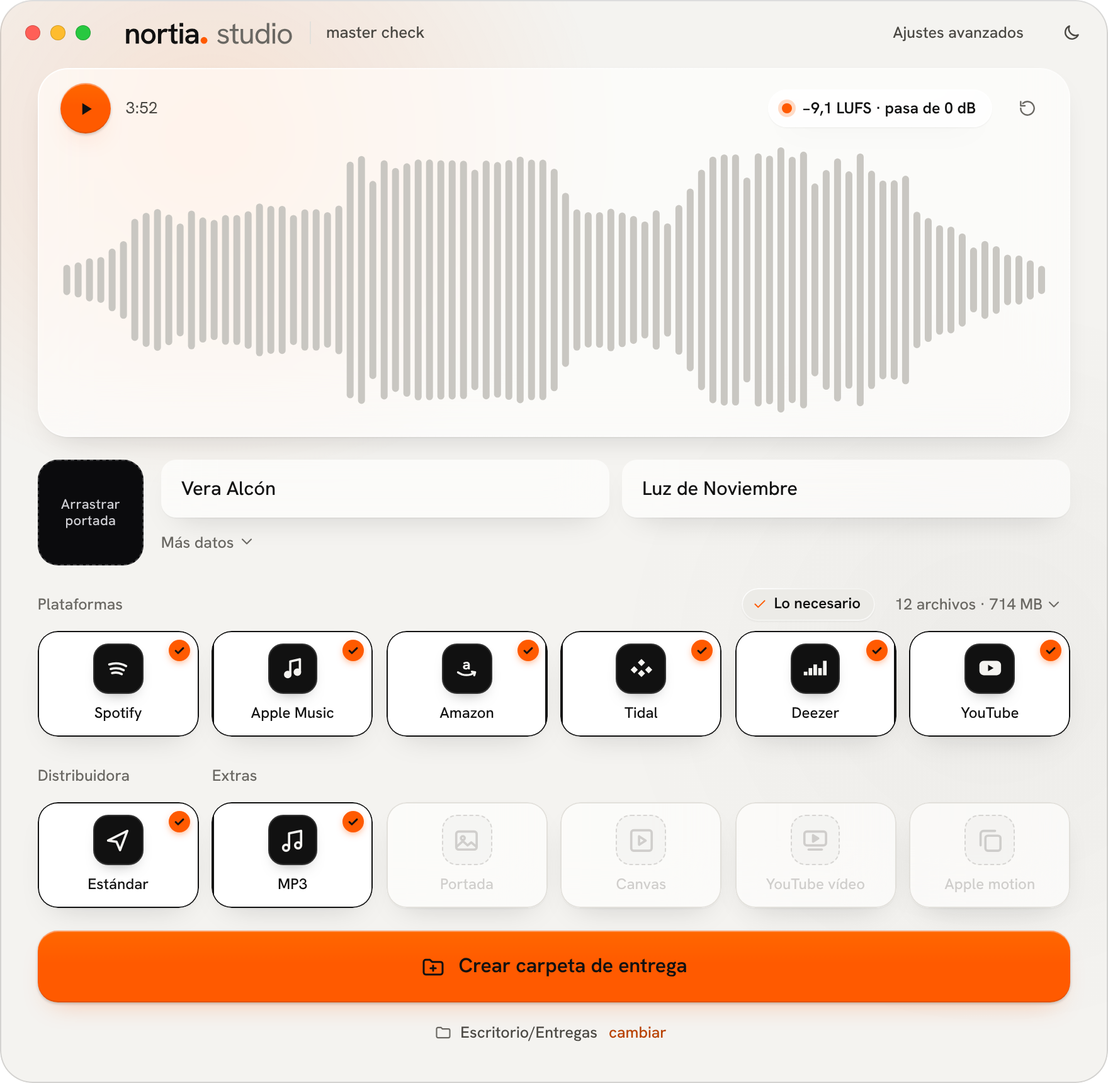
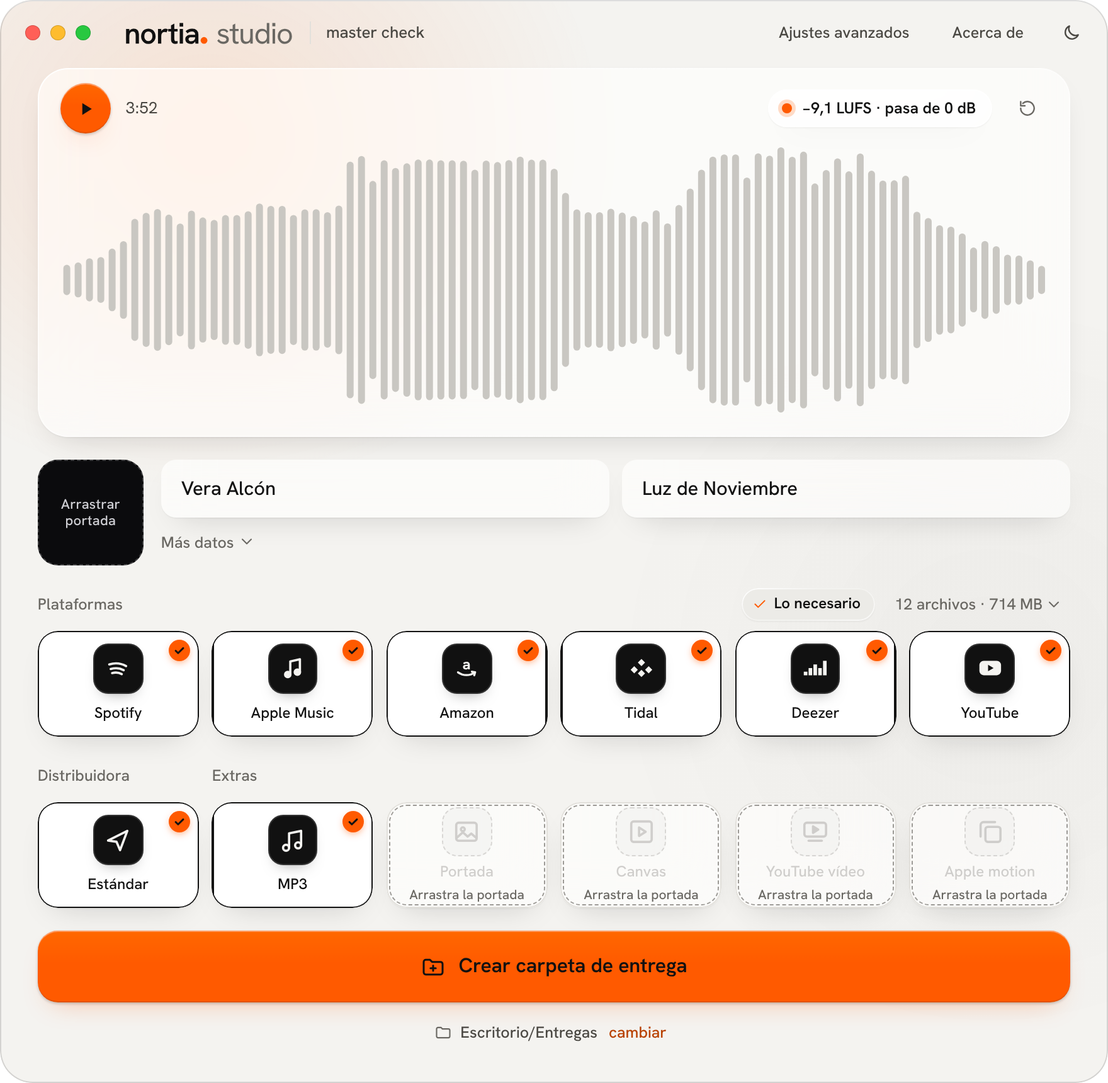
feat(ui): mejoras de la revisión final del hito 2 y avisos del hito 3
- textos sueltos de app.js por i18n (%, ×, <1 KB, 32 bit float, «documents»)
- progreso «preparando» con fracción antes del primer destino
- cancelar antes de que el motor registre la exportación se reenvía con el primer evento
- sin `default_on` en app_info se usa el conjunto seguro (todo salvo Apple Motion) y se avisa
- fichas sin material que aceptan soltar: borde discontinuo y pista «Arrastra la portada»
- veredicto final de ADM (aviso de estado «pasa de 0 dB al codificar») al terminar
- borrado `@keyframes mkb` (el símbolo no se anima en bucle, BRAND §4.5)

Claude-Session: https://claude.ai/code/session_01T6qQa5hhYb15CfNbCj3qBK

diff --git a/app/ui/app.js b/app/ui/app.js
@@ -8,7 +8,7 @@
                  &cover=1|rect &own=canvas,ytv,motion  → portada y material propio de ejemplo */
 import { backend } from './backend.js';
 import { loadLang, t, tn, getLang } from './i18n.js';
-import { isCancelled } from './flow.js';
+import { isCancelled, resolveDefaults, cancelOnFirstEvent, awaitingMaterial, finalNotes } from './flow.js';
 import { fmtLufs, fmtDbtp, fmtDuration, fmtMB, fmtRate, fmtSpec, shortPath } from './format.js';
 
 /* ───────────── Data: tabla de fichas de la interfaz ↔ destinos del motor ───────────── */
@@ -21,10 +21,12 @@ const Data = (() => {
   /* fichas que necesitan el sidecar de ffmpeg (MP3 y vídeo) */
   const needsSidecar = new Set(['mp3', 'canvas', 'ytv', 'motion']);
   /* fichas encendidas al empezar: `default_on` de presets.json, que el motor da en app_info
-     (una sola fuente de verdad). Hasta que llega, todas; si no llega la lista, también. */
-  let onIds = null;
-  const setDefaults = list => { onIds = Array.isArray(list) ? new Set(list) : null; };
-  const defaultOn = id => !onIds || onIds.has(preset[id]);
+     (una sola fuente de verdad). Hasta que llega, y si no llega la lista, el conjunto seguro
+     (todo salvo Apple Motion, como el prototipo aprobado) con un aviso en consola. */
+  const presetIds = Object.values(preset);
+  let onIds = resolveDefaults(undefined, presetIds);
+  const setDefaults = list => { onIds = resolveDefaults(list, presetIds, m => console.warn(m)); };
+  const defaultOn = id => onIds.has(preset[id]);
   const defaults = () => new Set(ids.filter(defaultOn));
   const byPreset = Object.fromEntries(Object.entries(preset).map(([k, v]) => [v, k]));
   const ext = { flac: '.flac', wav: '.wav', mp3: '.mp3', mp4: '.mp4', jpg: '.jpg', png: '.png' };
@@ -67,6 +69,8 @@ const Icons = (() => {
     x: s('<path d="M7 7l10 10M17 7L7 17"/>', 'stroke-width="2.4"'),
     moon: s('<path d="M20 14.5A8 8 0 0 1 9.5 4 8 8 0 1 0 20 14.5z"/>'),
     sun: s('<circle cx="12" cy="12" r="4"/><path d="M12 2.5v2.2M12 19.3v2.2M2.5 12h2.2M19.3 12h2.2M5.3 5.3l1.6 1.6M17.1 17.1l1.6 1.6M5.3 18.7l1.6-1.6M17.1 6.9l1.6-1.6"/>'),
+    /* aviso de estado: triángulo con filete (el color lo pone el contexto; lleva siempre palabra) */
+    warn: s('<path d="M12 4.5l9 15.5H3z"/><path d="M12 10v4.2M12 17.2v.1"/>', 'stroke-width="2"'),
     checkDraw: '<svg viewBox="0 0 24 24"><path pathLength="1" d="M5.5 12.5l4.2 4.2L18.5 8"/></svg>',
     /* símbolo barra de nortia. studio (punto estirado 2:1), en dos mitades para la entrada por polos */
     mark: (h, id = '') => `<svg width="${h / 2}" height="${h}" viewBox="0 0 28 56" aria-hidden="true"><path d="M0 14a14 14 0 0 1 28 0v14H0z" fill="var(--brand)"/><path d="M0 28h28v14a14 14 0 0 1-28 0z" fill="var(--brand)"/></svg>`,
@@ -177,7 +181,7 @@ const Store = (() => {
     mode: 'idle', loaded: false, busy: false, artist: '', title: '', m: {}, cover: null, coverPath: null,
     err: '', banner: '', pp: 0, pt: 0, fresh: true, flash: 0, over: false,
     master: null, waveform: [], plan: null, planSeq: 0, outRoot: '', info: { sidecar_available: true, os: 'mac' },
-    media: {}, notes: [],
+    media: {}, notes: [], vnotes: [], prep: null,
     on: Data.defaults(), rows: [], delivery: null, cancelled: false, canceling: false
   };
   if (Q.has('drag')) st.over = true;
@@ -194,6 +198,9 @@ const Store = (() => {
   const own = id => id === 'portada' ? (st.cover ? { name: baseName(st.coverPath) || t('cover.alt'), thumb: st.cover } : null) : (st.media[id] || null);
   /* motor: ruta del material propio por destino (la portada viaja en `meta.cover_path`) */
   const mediaInputs = () => Object.fromEntries(Object.entries(st.media).map(([id, m]) => [Data.preset[id], m.path]));
+  /* la ficha espera material (portada o el suyo) y acepta que se lo suelten: se insinúa con borde discontinuo */
+  const awaiting = id => awaitingMaterial({ media: Data.media, id, disabled: !!disabledReason(id), own: !!own(id), cover: !!st.cover, sidecar: st.info && st.info.sidecar_available });
+  const plannedVerdicts = () => Object.fromEntries((st.plan ? st.plan.jobs : []).map(j => [j.preset_id, j.verdict]));
   const notesOf = jobs => [...new Set(jobs.flatMap(j => j.warnings || []))];
   const selected = () => Data.ids.filter(id => st.on.has(id) && !disabledReason(id));
   const selectedJobs = () => selected().map(id => job(id)).filter(j => j && j.enabled);
@@ -207,7 +214,7 @@ const Store = (() => {
       year: nz(st.m.year), isrc: nz(st.m.isrc), composer: nz(st.m.comp), label: nz(st.m.label), copyright: null, cover_path: st.coverPath
     };
   };
-  return { st, job, disabledReason, own, mediaInputs, notesOf, selected, selectedJobs, allOn, docs, stats, meta };
+  return { st, job, disabledReason, own, awaiting, plannedVerdicts, mediaInputs, notesOf, selected, selectedJobs, allOn, docs, stats, meta };
 })();
 const S = Store.st;
 
@@ -221,10 +228,12 @@ const Views = (() => {
     if (own) return t('media.own', { name: own.name }) + notes;
     return (Data.media.has(id) ? t('media.hint.' + id) : '') + notes;
   };
+  /* nombre de un destino del motor; «documents» (documentos de la entrega) y los desconocidos tienen el suyo */
+  const destName = id => { const k = 'chip.long.' + (Data.byPreset[id] || id), s = t(k); return s === k ? id : s; };
   const dest = id => {
-    const why = Store.disabledReason(id), on = S.on.has(id) && !why, own = Store.own(id), title = chipTitle(id);
+    const why = Store.disabledReason(id), on = S.on.has(id) && !why, own = Store.own(id), title = chipTitle(id), acc = Store.awaiting(id);
     const mono = own && own.thumb ? `<img class="mthumb" src="${esc(own.thumb)}" alt="">` : Icons.gly[id];
-    const btn = `<button class="chip glass ${on ? 'on' : ''} ${why ? 'dis' : ''} ${own ? 'has-media' : ''}" role="switch" aria-checked="${on}" ${why ? 'aria-disabled="true"' : ''} ${title ? `title="${esc(title)}"` : ''} data-act="toggle" data-id="${id}"><span class="mono">${mono}</span><span class="cn">${esc(t('chip.' + id))}</span><i class="ck">${Icons.checkDraw}</i></button>`;
+    const btn = `<button class="chip glass ${on ? 'on' : ''} ${why ? 'dis' : ''} ${own ? 'has-media' : ''} ${acc ? 'acc' : ''}" role="switch" aria-checked="${on}" ${why ? 'aria-disabled="true"' : ''} ${title ? `title="${esc(title)}"` : ''} data-act="toggle" data-id="${id}"><span class="mono">${mono}</span><span class="cn">${esc(t('chip.' + id))}</span>${acc ? `<small class="dh">${esc(t('accept.drop'))}</small>` : ''}<i class="ck">${Icons.checkDraw}</i></button>`;
     if (!Data.media.has(id)) return btn;
     const clear = own ? `<span class="mx" role="button" tabindex="0" data-act="media-clear" data-mid="${id}" aria-label="${esc(t('media.clear', { name: own.name }))}" title="${esc(t('media.clear', { name: own.name }))}">${Icons.x}</span>` : '';
     const pick = `<span class="mp" role="button" tabindex="0" data-act="media-pick" data-mid="${id}" aria-label="${esc(t('media.pick'))}" title="${esc(t('media.pick'))}">${Icons.plus}</span>`;
@@ -232,7 +241,7 @@ const Views = (() => {
   };
   const dur = () => (S.master ? S.master.duration_secs : 0);
   const timeTxt = () => S.pp > 0 ? fmtDuration(S.pp * dur()) + ' / ' + fmtDuration(dur()) : fmtDuration(dur());
-  const format = m => `WAV ${m.is_float ? '32 bit float' : m.bits + ' bit'} · ${fmtRate(m.sample_rate, lg())}`;
+  const format = m => t('fmt.wav', { depth: m.is_float ? t('fmt.float32') : t('fmt.bits', { n: m.bits }), rate: fmtRate(m.sample_rate, lg()) });
   const lpill = () => {
     const m = S.master, over = m.true_peak_dbtp > 0;
     return `<span class="loudw"><button class="lpill glass" data-act="pop" data-p="detail" aria-expanded="false" aria-controls="pop-detail"><i></i>${fmtLufs(m.integrated_lufs, lg())} · ${t(over ? 'loud.over' : 'loud.ok')}</button>
@@ -241,7 +250,7 @@ const Views = (() => {
   };
   const heroBar = () => S.mode === 'idle'
     ? `<div class="hbar"><button class="play" data-act="play" data-playing="${!!S.pt}" aria-label="${t(S.pt ? 'pause' : 'play')}">${S.pt ? Icons.pause : Icons.play}</button><span class="tm" data-time>${timeTxt()}</span><span class="sp"></span>${lpill()}<button class="ib" data-act="song" title="${esc(t('song.change'))}" aria-label="${esc(t('song.change'))}">${Icons.reset}</button></div>`
-    : `<div class="hbar"><span class="ttl"><b>${esc(S.title)}</b>${esc(S.artist)}</span><span class="sp"></span>${S.mode === 'creating' ? '<span class="pct" data-pc>0 %</span>' : `<span class="pct" role="img" aria-label="${esc(t('done.completed'))}">${Icons.check}</span>`}</div>`;
+    : `<div class="hbar"><span class="ttl"><b>${esc(S.title)}</b>${esc(S.artist)}</span><span class="sp"></span>${S.mode === 'creating' ? `<span class="pct" data-pc>${t('pct', { n: 0 })}</span>` : `<span class="pct" role="img" aria-label="${esc(t('done.completed'))}">${Icons.check}</span>`}</div>`;
   const hero = () => S.loaded
     ? `<div class="hero glass dz ${S.mode === 'done' ? 'fin' : S.mode === 'creating' ? 'making' : ''}" id="hero">${heroBar()}<div class="wvw" id="wave"></div></div>`
     : `<div class="hero glass dz empty ${S.over ? 'over' : ''}" id="hero"><button class="dzone" data-act="song"><span class="mk">${Icons.mark(64)}</span><b>${t('drop.title')}</b>${S.err ? `<small class="er" role="alert">${esc(S.err)}</small>` : ''}</button></div>`;
@@ -257,11 +266,12 @@ const Views = (() => {
   const row = (x, done) => `<div class="fr ${done ? '' : 'in'}" ${x.title ? `title="${esc(x.title)}"` : ''}>${Icons.file}<span class="fn">${esc(x.name)}<em>${esc(x.ext)}</em></span><span class="r ${x.state === 'done' || done ? 'ok' : ''}" ${x.state === 'fail' ? 'style="color:var(--err)"' : ''}>${x.state === 'done' || done ? Icons.check : ''}</span></div>`;
 
   function html() {
-    if (S.mode === 'creating') return `${hero()}<div class="flist glass" data-flist></div><div class="go busy" role="status"><i class="spin"></i>${t('creating')}<button class="cx" data-act="cancel"${S.canceling ? ' disabled' : ''}>${t('cancel')}</button></div>`;
+    if (S.mode === 'creating') return `${hero()}<div class="flist glass" data-flist></div><div class="go busy" role="status"><i class="spin"></i><span data-busy>${t('creating')}</span><button class="cx" data-act="cancel"${S.canceling ? ' disabled' : ''}>${t('cancel')}</button></div>`;
     if (S.mode === 'done') {
       const f = S.delivery ? S.delivery.failed : [];
       return `${hero()}<div class="donebox">${Icons.doneMark}<h1>${t('done.title', { n: '<span data-n></span>', name: '<span data-fname></span>' })}</h1>
-      ${f.length ? `<p class="warnline" role="alert"><b>${t('done.failed')}</b> ${f.map(([id, msg]) => esc((Data.byPreset[id] ? t('chip.long.' + Data.byPreset[id]) : id) + ': ' + msg)).join(' · ')}</p>` : ''}
+      ${f.length ? `<p class="warnline" role="alert"><b>${t('done.failed')}</b> ${f.map(([id, msg]) => esc(destName(id) + ': ' + msg)).join(' · ')}</p>` : ''}
+      ${S.vnotes.length ? `<p class="statusline" role="status">${Icons.warn}<span><b>${t('done.verdicts')}</b> ${S.vnotes.map(n => esc(n.name + ': ' + n.text)).join(' · ')}</span></p>` : ''}
       ${S.notes.length ? `<p class="noteline"><b>${t('done.notes')}</b> ${S.notes.map(esc).join(' ')}</p>` : ''}
       <div class="acts"><button class="bb pri" data-act="open">${Icons.folder}<span>${t('open')}</span></button><button class="bb glass" data-act="again">${Icons.plus}<span>${t('again')}</span></button></div>${sum()}</div>`;
     }
@@ -275,7 +285,7 @@ const Views = (() => {
       ${S.banner ? `<p class="banner" role="alert">${esc(S.banner)}</p>` : ''}
       <button class="go" data-act="create">${Icons.folderPlus}${t('create')}</button>${folderLine()}`;
   }
-  return { html, row, timeTxt, dest, chipTitle };
+  return { html, row, timeTxt, dest, chipTitle, destName };
 })();
 
 /* ───────────── Plan: el motor decide qué destinos hay, nombres y tamaños ───────────── */
@@ -327,7 +337,7 @@ const App = (() => {
       let h = `<div class="tr dir">${Icons.folder}<div class="nm">${esc(folderName())}/</div></div>`;
       /* agrupadas por carpeta (varios destinos comparten carpeta) */
       entries.filter(x => x.fo).sort((a, b) => (a.fo < b.fo ? -1 : a.fo > b.fo ? 1 : 0)).forEach(x => { if (x.fo !== last) { last = x.fo; h += `<div class="tr dir" style="padding-left:16px">${Icons.folder}<div class="nm">${esc(x.fo)}/</div></div>`; } h += `<div class="tr" style="padding-left:32px">${Icons.file}<div class="nm">${esc(x.name)}</div><span class="sz">${fmtMB(x.bytes, lg())}</span></div>`; });
-      entries.filter(x => !x.fo).forEach(x => h += `<div class="tr" style="padding-left:18px">${Icons.file}<div class="nm">${esc(x.name)}</div><span class="sz">${x.bytes < 1e4 ? '&lt;1 KB' : fmtMB(x.bytes, lg())}</span></div>`);
+      entries.filter(x => !x.fo).forEach(x => h += `<div class="tr" style="padding-left:18px">${Icons.file}<div class="nm">${esc(x.name)}</div><span class="sz">${x.bytes < 1e4 ? esc(t('size.lt_1kb')) : fmtMB(x.bytes, lg())}</span></div>`);
       tr.innerHTML = h;
     }
     const adv = $('#pop-adv');
@@ -349,6 +359,10 @@ const App = (() => {
     $$(`[data-id="${id}"]`).forEach(b => {
       const why = Store.disabledReason(id), on = S.on.has(id) && !why;
       b.classList.toggle('on', on); b.classList.toggle('dis', !!why); b.setAttribute('aria-checked', on);
+      const acc = Store.awaiting(id), hint = $('.dh', b);
+      b.classList.toggle('acc', acc);
+      if (acc && !hint) b.insertAdjacentHTML('beforeend', `<small class="dh">${esc(t('accept.drop'))}</small>`);
+      else if (!acc && hint) hint.remove();
       const tt = Views.chipTitle(id);
       if (why) b.setAttribute('aria-disabled', 'true'); else b.removeAttribute('aria-disabled');
       if (tt) b.title = tt; else b.removeAttribute('title');
@@ -420,18 +434,22 @@ const Create = (() => {
       c.classList.toggle('ok', r.state === 'done');
       c.style.color = r.state === 'fail' ? 'var(--err)' : '';
       if (r.state === 'done') c.innerHTML = Icons.check;
-      else if (r.state === 'fail') c.textContent = '×';
-      else c.textContent = Math.round((r.frac || 0) * 100) + ' %';
+      else if (r.state === 'fail') { c.innerHTML = Icons.x; c.setAttribute('role', 'img'); c.setAttribute('aria-label', t('row.failed')); }
+      else c.textContent = t('pct', { n: Math.round((r.frac || 0) * 100) });
     });
     list.scrollTop = list.scrollHeight;
-    const pr = pct(); Wave.setProgress(pr); $$('[data-pc]').forEach(e => e.textContent = Math.round(pr * 100) + ' %');
+    const pr = pct(); Wave.setProgress(pr); $$('[data-pc]').forEach(e => e.textContent = t('pct', { n: Math.round(pr * 100) }));
+    /* mientras el motor prepara las muestras (antes del primer destino) la barra lo dice con su fracción */
+    const busy = $('[data-busy]');
+    if (busy) busy.textContent = S.prep != null && S.rows.every(r => r.state === 'wait') ? t('preparing') + ' ' + t('pct', { n: Math.round(S.prep * 100) }) : t('creating');
   }
   const docRows = () => Store.docs().map(d => { const [name, ext] = split(d); return { kind: 'doc', name, ext, state: 'done' }; });
   const jobRows = jobs => jobs.map(j => { const ui = Data.byPreset[j.preset_id]; return { kind: 'job', preset_id: j.preset_id, name: t('chip.long.' + ui), ext: Data.ext[j.container] || '', title: j.file_name, state: 'wait', frac: 0 }; });
 
   function onEvent(ev) {
     const row = S.rows.find(r => r.preset_id === ev.preset_id);
-    if (ev.kind === 'job_started' && row) { row.state = 'run'; row.frac = 0; }
+    if (ev.kind === 'preparing') S.prep = ev.fraction || 0;
+    else if (ev.kind === 'job_started' && row) { row.state = 'run'; row.frac = 0; }
     else if (ev.kind === 'job_progress' && row) { row.state = 'run'; row.frac = ev.fraction || 0; }
     else if (ev.kind === 'job_done' && row) row.state = 'done';
     else if (ev.kind === 'job_failed' && row) { row.state = 'fail'; row.error = ev.error; }
@@ -442,17 +460,19 @@ const Create = (() => {
   async function start() {
     const jobs = Store.selectedJobs();
     Player.stop();
-    S.rows = jobRows(jobs); S.mode = 'creating'; S.delivery = null; S.cancelled = false; S.canceling = false; S.banner = '';
+    S.rows = jobRows(jobs); S.mode = 'creating'; S.delivery = null; S.cancelled = false; S.canceling = false; S.banner = ''; S.prep = null; S.vnotes = [];
     S.notes = Store.notesOf(jobs);
     App.render();
     if (STILL) return still();
     const req = { master_path: S.master.path, out_root: S.outRoot, meta: Store.meta(), active_ids: jobs.map(j => j.preset_id), media_inputs: Store.mediaInputs() };
     try {
-      const d = await backend.export(req, onEvent);
+      /* cancelar antes de que el motor registre la exportación no llega a nada: se reenvía con el primer evento */
+      const forward = cancelOnFirstEvent(() => S.canceling, () => backend.cancelExport());
+      const d = await backend.export(req, ev => { forward(ev); onEvent(ev); });
       if (isCancelled(S.cancelled, d)) { S.mode = 'idle'; S.rows = []; App.render(); return; }
       S.rows.filter(r => r.kind === 'job' && r.state !== 'fail').forEach(r => r.state = 'done');
       S.rows.push(...docRows());
-      S.delivery = d; refresh();
+      S.delivery = d; S.vnotes = finalNotes(d.verdicts, Data.byPreset, t, Store.plannedVerdicts()); refresh();
       hold = setTimeout(() => { S.mode = 'done'; App.render(); }, 380);
     } catch (e) { S.mode = 'idle'; S.rows = []; S.banner = errText(e); App.render(); }
   }
@@ -559,7 +579,7 @@ const Events = (() => {
   }
   function again() {
     Player.stop();
-    Object.assign(S, { mode: 'idle', loaded: false, cover: null, coverPath: null, artist: '', title: '', m: {}, master: null, waveform: [], plan: null, delivery: null, rows: [], banner: '', err: '', media: {}, notes: [] });
+    Object.assign(S, { mode: 'idle', loaded: false, cover: null, coverPath: null, artist: '', title: '', m: {}, master: null, waveform: [], plan: null, delivery: null, rows: [], banner: '', err: '', media: {}, notes: [], vnotes: [], prep: null });
     S.on = Data.defaults();
     App.render();
   }
@@ -660,7 +680,7 @@ async function boot() {
     else if (state === 'done') {
       const jobs = Store.selectedJobs();
       S.delivery = await backend.export({ master_path: S.master.path, out_root: S.outRoot, meta: Store.meta(), active_ids: jobs.map(j => j.preset_id), media_inputs: Store.mediaInputs() }, () => {});
-      S.notes = Store.notesOf(jobs);
+      S.notes = Store.notesOf(jobs); S.vnotes = finalNotes(S.delivery.verdicts, Data.byPreset, t, Store.plannedVerdicts());
       S.mode = 'done'; App.render();
     }
   }

diff --git a/app/ui/backend.js b/app/ui/backend.js
@@ -43,6 +43,7 @@ const TEXT = {
     'warn.cover_cropped': 'La portada no era cuadrada: se ha recortado desde el centro.',
     'warn.cover_upscaled': 'La portada es más pequeña que 3000×3000 y se ha ampliado. Para máxima calidad usa una de 3000×3000 o más.',
     'tag.cover': 'Portada',
+    adm_clipping: 'pasa de 0 dB al codificar',
     apple_needs_24bit: 'Apple Digital Masters exige un máster de 24 bit',
     youtube_music_needs_16bit: 'Se necesita un máster de al menos 16 bit',
     'tag.distributor': 'Distribuidora'
@@ -58,6 +59,7 @@ const TEXT = {
     'warn.cover_cropped': 'The cover was not square: it was cropped from the center.',
     'warn.cover_upscaled': 'The cover is smaller than 3000×3000 and was enlarged. For best quality use one of 3000×3000 or more.',
     'tag.cover': 'Cover',
+    adm_clipping: 'clips when encoded',
     apple_needs_24bit: 'Apple Digital Masters requires a 24-bit master',
     youtube_music_needs_16bit: 'A master of at least 16 bit is required',
     'tag.distributor': 'Distributor'
@@ -108,9 +110,10 @@ function bridgeError(lang, key, detail = null) {
 /**
  * Backend simulado. Opciones: `fast` (progreso casi instantáneo), `lang` inicial,
  * `sidecar` (false simula que no hay ffmpeg: sin MP3 ni vídeo), `defaultOff` (ids de preset con
- * `default_on: false`, como presets.json), `os`.
+ * `default_on: false`, como presets.json), `os`, `adm` ('clip' simula que el AAC de Apple Digital
+ * Masters pasa de 0 dB al codificar: el veredicto final de la ficha de Apple es un aviso).
  */
-export function createMock({ fast = false, lang = 'es', sidecar = true, defaultOff = ['apple_motion'], os = 'mac', version = '0.1.0-mock', dropCancelEvent = false } = {}) {
+export function createMock({ fast = false, lang = 'es', sidecar = true, defaultOff = ['apple_motion'], os = 'mac', version = '0.1.0-mock', dropCancelEvent = false, adm = null } = {}) {
   let curLang = lang;
   let cancelled = false;
   let folderIx = 0;
@@ -197,10 +200,13 @@ export function createMock({ fast = false, lang = 'es', sidecar = true, defaultO
       const files = [];
       onProgress({ kind: 'analyzed' });
       onProgress({ kind: 'planned' });
+      /* el motor prepara una vez las muestras de cada combinación (bits, frecuencia) antes del primer destino */
+      const combos = [...new Set(jobs.filter(j => j.bits).map(j => `${j.bits}/${j.sample_rate}`))];
+      for (let i = 0; i < combos.length; i++) { await wait(120); onProgress({ kind: 'preparing', fraction: (i + 1) / combos.length }); }
       for (const j of jobs) {
         if (cancelled) {
           if (!dropCancelEvent) onProgress({ kind: 'cancelled' });
-          return { folder: root, cancelled: true, files, failed: [], failed_keys: [], failed_details: [], elapsed_ms: 0 };
+          return { folder: root, cancelled: true, files, failed: [], failed_keys: [], failed_details: [], verdicts: [], elapsed_ms: 0 };
         }
         onProgress({ kind: 'job_started', preset_id: j.preset_id });
         const ms = 280 + Math.min(j.estimated_bytes / 1e6, 140) / 140 * 500;
@@ -212,7 +218,11 @@ export function createMock({ fast = false, lang = 'es', sidecar = true, defaultO
         onProgress({ kind: 'job_done', preset_id: j.preset_id, path, bytes: j.estimated_bytes });
       }
       DOCS[curLang].forEach((d, i) => files.push([`${root}/${d}`, [3000, 4000, 1000, 2000][i]]));
-      const delivery = { folder: root, cancelled: false, files, failed: [], failed_keys: [], failed_details: [], elapsed_ms: 1200 };
+      /* veredicto final por destino: el de ADM puede empeorar el de Apple tras codificar el AAC */
+      const verdicts = jobs.map(j => (adm === 'clip' && j.preset_id === 'apple_adm' && j.verdict === 'ok')
+        ? { preset_id: j.preset_id, verdict: 'warn', verdict_text: tx('adm_clipping') }
+        : { preset_id: j.preset_id, verdict: j.verdict, verdict_text: j.verdict_text });
+      const delivery = { folder: root, cancelled: false, files, failed: [], failed_keys: [], failed_details: [], verdicts, elapsed_ms: 1200 };
       onProgress({ kind: 'finished', delivery });
       return delivery;
     },
@@ -272,7 +282,7 @@ export function detect(g = globalThis) {
   const forced = q.get('backend');
   const hasTauri = !!(g.__TAURI_INTERNALS__ || g.__TAURI__);
   if (forced === 'tauri' || (!forced && hasTauri)) return createTauri(g);
-  return createMock({ fast: q.has('fast') || q.has('still'), lang: q.get('lang') === 'en' ? 'en' : 'es', sidecar: q.get('sidecar') !== '0', defaultOff: q.has('off') ? q.get('off').split(',') : undefined, os: q.get('os') === 'win' ? 'win' : 'mac' });
+  return createMock({ fast: q.has('fast') || q.has('still'), lang: q.get('lang') === 'en' ? 'en' : 'es', sidecar: q.get('sidecar') !== '0', defaultOff: q.has('off') ? q.get('off').split(',') : undefined, os: q.get('os') === 'win' ? 'win' : 'mac', adm: q.get('adm') });
 }
 
 export const backend = detect();

diff --git a/app/ui/flow.js b/app/ui/flow.js
@@ -3,3 +3,45 @@
 /** Una exportación está cancelada si lo dijo el evento `cancelled` O lo dice la propia entrega
     (el evento puede llegar después de que la promesa se resuelva). */
 export const isCancelled = (flag, delivery) => !!(flag || (delivery && delivery.cancelled));
+
+/** Fichas que arrancan apagadas si el motor no dice cuáles son (`app_info.default_on` ausente):
+    las que presets.json trae con `default_on: false`. Hoy solo Apple Motion (el HEVC pesa mucho). */
+export const SAFE_OFF = ['apple_motion'];
+
+/** Conjunto de ids de preset encendidos al empezar. La lista del motor manda; si no llega una
+    lista, se usa el conjunto seguro (todo salvo `SAFE_OFF`) y se avisa con `warn`. */
+export function resolveDefaults(list, allPresetIds, warn = () => {}) {
+  if (Array.isArray(list)) return new Set(list);
+  warn('app_info sin default_on: se usa el conjunto seguro');
+  return new Set(allPresetIds.filter(id => !SAFE_OFF.includes(id)));
+}
+
+/** Gancho de eventos de progreso que reenvía la cancelación con el PRIMER evento si el usuario ya
+    la había pedido: pulsada antes de que el motor registre la exportación, `cancel_export` no
+    encuentra nada que cancelar y la exportación acabaría como «listo». */
+export function cancelOnFirstEvent(isCanceling, cancel) {
+  let seen = false;
+  return () => {
+    if (seen) return;
+    seen = true;
+    if (isCanceling()) { try { Promise.resolve(cancel()).catch(() => {}); } catch { /* sin motor al que avisar */ } }
+  };
+}
+
+/** ¿La ficha está apagada solo por falta de material y acepta que se lo suelten? (pista visual) */
+export function awaitingMaterial({ media, id, disabled, own, cover, sidecar }) {
+  if (!media.has(id) || !disabled || own || cover) return false;
+  return id === 'portada' || sidecar !== false;
+}
+
+/** Avisos que nacen al exportar: destinos cuyo veredicto final (tras codificar, p. ej. el AAC de
+    Apple Digital Masters) es peor que el que se anunció en el plan. Lo que ya se sabía antes de
+    exportar (el pico real de la canción) no se repite. `planned`: preset_id -> veredicto del plan. */
+export function finalNotes(verdicts, byPreset, t, planned = {}) {
+  return (verdicts || [])
+    .filter(v => v.verdict !== 'ok' && v.verdict_text && planned[v.preset_id] !== v.verdict)
+    .map(v => {
+      const id = byPreset[v.preset_id] || v.preset_id;
+      return { id, preset_id: v.preset_id, name: t('chip.long.' + id), text: v.verdict_text };
+    });
+}

diff --git a/app/ui/styles.css b/app/ui/styles.css
@@ -187,7 +187,6 @@ html[data-native=true][data-os=mac] .titlebar{padding-left:88px}
 .dzone .mk{display:flex}
 .dzone .mk svg{width:auto;height:clamp(40px,8vh,68px)}
 @keyframes breathe{0%,100%{box-shadow:0 0 0 0 transparent,inset 0 0 0 0 transparent;border-color:var(--ctl)}50%{box-shadow:0 0 0 7px color-mix(in srgb,var(--brand) 9%,transparent),inset 0 0 34px color-mix(in srgb,var(--brand) 8%,transparent);border-color:color-mix(in srgb,var(--brand) 65%,var(--ctl))}}
-@keyframes mkb{50%{transform:translateY(-4px)}}
 .dzone:hover,.hero.over .dzone{animation:none;border-color:var(--brand);background:color-mix(in srgb,var(--brand) 7%,transparent);transform:scale(1.004)}
 .dzone:active{transform:scale(.995);transition-duration:90ms}
 .hero.over .dzone{border-style:solid;box-shadow:0 0 0 5px color-mix(in srgb,var(--brand) 14%,transparent),0 0 40px 2px color-mix(in srgb,var(--brand) 26%,transparent),inset 0 0 36px color-mix(in srgb,var(--brand) 10%,transparent)}
@@ -407,3 +406,14 @@ body.still *,body.still *::before,body.still *::after{animation:none!important}
 /* avisos del motor en el estado listo (calma: ámbar, nunca el acento) */
 .noteline{margin:0;font-size:12.5px;line-height:1.45;color:var(--ink-2);max-width:560px}
 .noteline b{font-weight:600;color:var(--amber-ink)}
+
+/* ───────────── hito 3 · tarea 7 ───────────── */
+/* ficha apagada solo por falta de material que acepta soltar: borde discontinuo sutil + pista corta */
+.chipw .chip.acc{outline:1.5px dashed color-mix(in srgb,var(--ctl) 80%,transparent);outline-offset:-3px;gap:4px}
+.chip .dh{font-size:10.5px;line-height:1;font-weight:500;color:var(--ink-3);white-space:nowrap;max-width:100%;overflow:hidden;text-overflow:ellipsis;margin-bottom:2px}
+.chip.dis .dh{opacity:1!important}
+.chipw.over .chip .dh{color:var(--brand-ink)}
+/* veredicto final de un destino tras exportar (aviso de estado: ocre, con icono y palabra; nunca el acento) */
+.statusline{margin:0;display:flex;align-items:flex-start;gap:7px;font-size:12.5px;line-height:1.45;color:var(--ink-2);max-width:560px;text-align:left}
+.statusline .ic{width:15px;height:15px;flex:none;margin-top:1px;color:var(--amber-ink)}
+.statusline b{font-weight:600;color:var(--amber-ink)}
